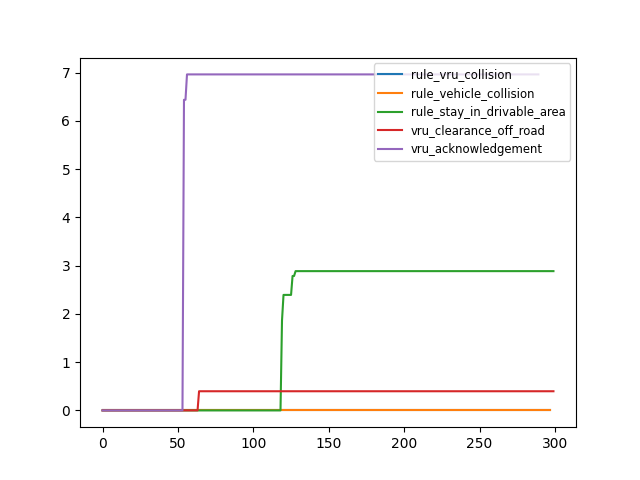
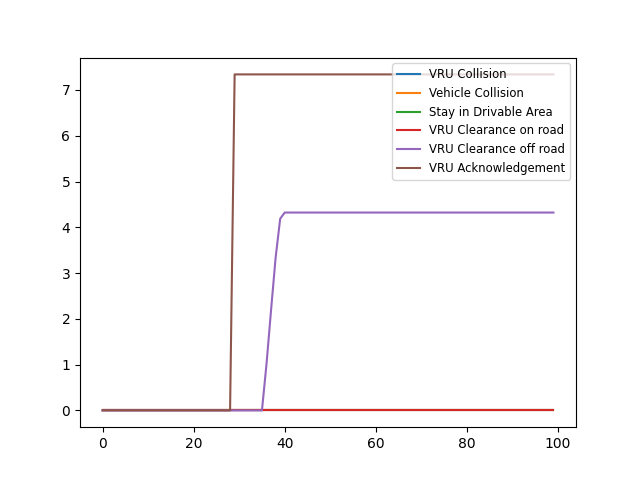
a

diff --git a/src/rulebook_benchmark/rule_functions.py b/src/rulebook_benchmark/rule_functions.py
@@ -25,7 +25,7 @@ step: corresponding timestep
     
 def rule_collision(realization, object_type="Pedestrian", start_index=None, end_index=None):
     # re-write the function to use the new realization object
-    violation_history = []
+    violation_history = [0]
     
     if start_index is None:
         start_index = 0
@@ -42,16 +42,18 @@ def rule_collision(realization, object_type="Pedestrian", start_index=None, end_
     for i in range(start_index + 1, end_index - 1):
         ego_state = ego.get_state(i)
         ego_region = MeshVolumeRegion(mesh=ego.mesh, dimensions=ego.dimensions, position=ego_state.position, rotation=ego_state.orientation)
+        ego_polygon = ego_region.boundingPolygon.polygons
         ego_velocity_before = ego.get_state(i-1).velocity
         ego_velocity = ego_state.velocity
         ego_velocity_after = ego.get_state(i+1).velocity
         for obj in objects:
             obj_state = obj.get_state(i)
             obj_region = MeshVolumeRegion(mesh=obj.mesh, dimensions=obj.dimensions, position=obj_state.position, rotation=obj_state.orientation)
+            obj_polygon = obj_region.boundingPolygon.polygons
             obj_velocity_before = obj.get_state(i-1).velocity
             obj_velocity = obj_state.velocity
             obj_velocity_after = obj.get_state(i+1).velocity
-            if ego_region.intersects(obj_region):
+            if shapely.intersects(ego_polygon, obj_polygon):
                 ego_delta_1 = ego_velocity - ego_velocity_before
                 obj_delta_1 = obj_velocity - obj_velocity_before
                 
@@ -67,7 +69,8 @@ def rule_collision(realization, object_type="Pedestrian", start_index=None, end_
                 max_violation = max(ego_delta_norm_1, obj_delta_norm_1, ego_delta_norm_2, obj_delta_norm_2)
                 total_violation += max_violation
         violation_history.append(total_violation)
-        
+    
+    violation_history.append(total_violation)
     return total_violation, violation_history
         
 def rule_vehicle_collision(realization, start_index=None, end_index=None):
@@ -124,7 +127,7 @@ def vru_clearance(realization, on_road=False, threshold = 2, start_index=None, e
         end_index = realization.max_steps
     ego = realization.get_ego()
     objects = [obj for obj in realization.objects_non_ego if obj.object_type in ["Pedestrian", "Bicycle"]]
-    drivable_region = realization.network.drivableRegion
+    drivable_region = realization.network.drivableRegion.polygons
     max_violation = 0
     
     for i in range(start_index, end_index):
@@ -138,7 +141,7 @@ def vru_clearance(realization, on_road=False, threshold = 2, start_index=None, e
             obj_polygon = obj_region.boundingPolygon.polygons
             distance = ego_polygon.distance(obj_polygon)
             violation = threshold - distance
-            if (on_road and drivable_region.intersects(obj_region)) or (not on_road and not drivable_region.intersects(obj_region)):
+            if (on_road and shapely.intersects(drivable_region, obj_polygon)) or (not on_road and not shapely.intersects(drivable_region, obj_polygon)):
                 max_violation = max(max_violation, violation)    
             violation_history.append(max_violation)
             
@@ -147,11 +150,11 @@ def vru_clearance(realization, on_road=False, threshold = 2, start_index=None, e
 
 
 
-def vru_clearance_on_road(realization, start_index=None, end_index=None, threshold = 2):
+def vru_clearance_on_road(realization, start_index=None, end_index=None, threshold = 6):
     return vru_clearance(realization, on_road=True, start_index=start_index, end_index=end_index, threshold = threshold)
 
 
-def vru_clearance_off_road(realization, start_index=None, end_index=None, threshold = 2):
+def vru_clearance_off_road(realization, start_index=None, end_index=None, threshold = 6):
     return vru_clearance(realization, on_road=False, start_index=start_index, end_index=end_index, threshold = threshold)
 
 
@@ -164,10 +167,8 @@ def vru_acknowledgement(realization, proximity=5, threshold=5,  timesteps=10, st
     if end_index is None:
         end_index = realization.max_steps
     
+    
     violation_history = []
-    
-    
-    
     ego = realization.get_ego()
     objects = [obj for obj in realization.objects_non_ego if obj.object_type in ["Pedestrian", "Bicycle"]]
     max_violation = 0
@@ -197,6 +198,8 @@ def vru_acknowledgement(realization, proximity=5, threshold=5,  timesteps=10, st
                 max_violation = max(max_violation, violation)
         violation_history.append(max_violation)
                 
+                
+    violation_history += timesteps * [max_violation]
     return max_violation, violation_history
 
         
